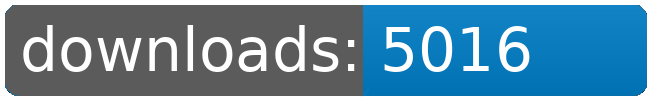
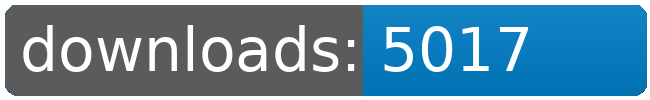
dl log written

Changed region(s): [[0.7692, 0.24, 0.8308, 0.72]]

diff --git a/README.md b/README.md
@@ -21,8 +21,8 @@
 		<td>4929</td>
 		<td>4967</td>
 		<td>4996</td>
-		<td>5016</td>
-		<td>+ 20</td>
+		<td>5017</td>
+		<td>+ 21</td>
 	</tr>
 	<tr>
 		<td>Factory.Outlets</td>
@@ -109,8 +109,8 @@
 		<td></td>
 		<td></td>
 		<td></td>
-		<td>40650</td>
-		<td>138</td>
+		<td>40651</td>
+		<td>139</td>
 	</tr>
 </table>
 </sub></sup>
@@ -157,8 +157,8 @@
 		<td>4929</td>
 		<td>4967</td>
 		<td>4996</td>
-		<td>5016</td>
-		<td>+ 20</td>
+		<td>5017</td>
+		<td>+ 21</td>
 	</tr>
 	<tr>
 		<td>Korunak.Defense.Drones</td>
@@ -223,8 +223,8 @@
 		<td></td>
 		<td></td>
 		<td></td>
-		<td>40650</td>
-		<td>138</td>
+		<td>40651</td>
+		<td>139</td>
 	</tr>
 </table>
 </sub></sup>
